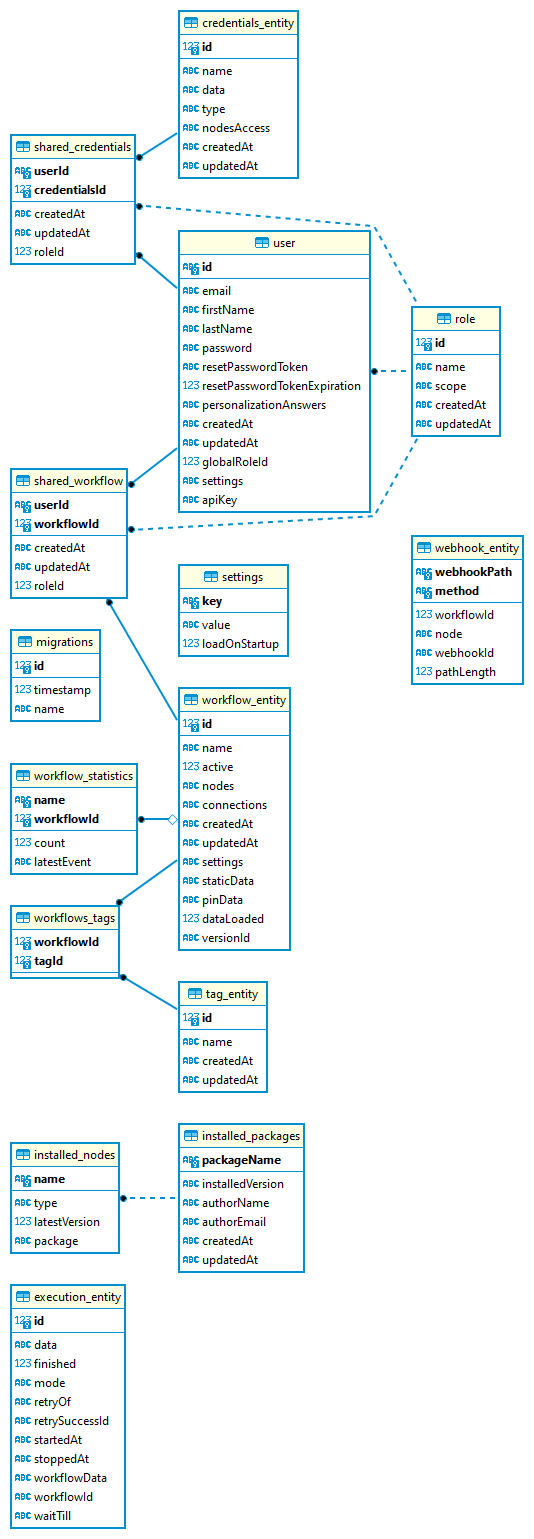
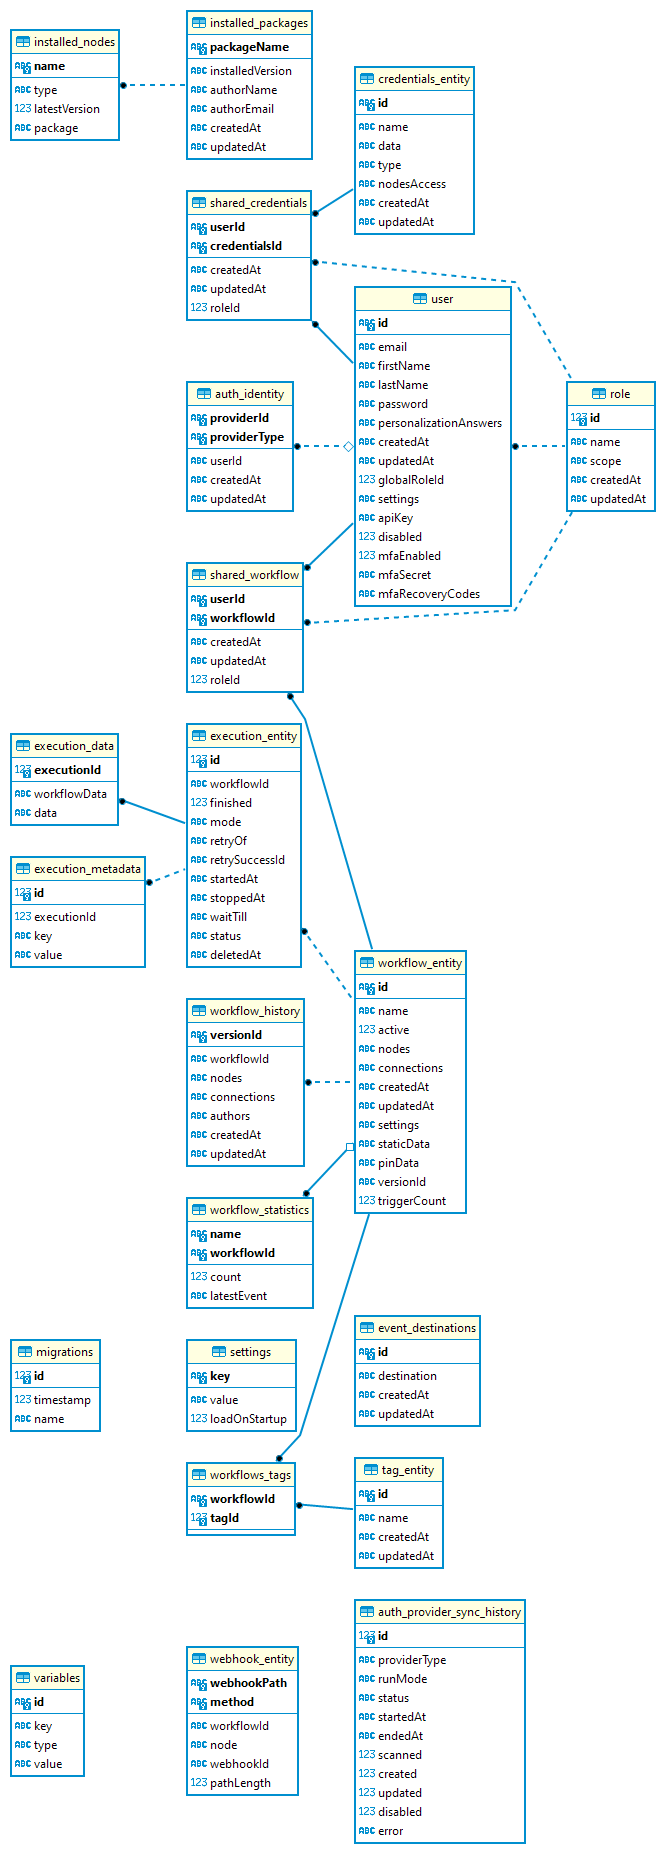
wip

Changed region(s): [[0.0, 0.0, 0.9888, 0.9981], [0.0, 0.7173, 0.2397, 0.9981], [0.2697, 0.8733, 0.4494, 0.9669]]

diff --git a/docs/hosting/architecture/database-structure.md b/docs/hosting/architecture/database-structure.md
@@ -19,19 +19,35 @@ To inspect the n8n database, you can use [DBeaver](https://dbeaver.io){:target=_
 
 These are the tables n8n creates during setup.
 
+### auth_identity
+
+Stores details of external authentication providers when using [SAML](/user-management/saml/). [TODO - confirm]
+
+### auth_provider_sync_history
+
+Stores the history of a SAML connection. [TODO - confirm]
+
 ### credentials_entity
 
 Stores the credentials used to authenticate with integrations.
 
-### eventdestinations_entity
+### event_destinations
 
 Enterprise only.
 
 Contains the destination configurations for [Log streaming](/log-streaming/).
 
+### execution_data
+
+Links executions to workflow data. [TODO - confirm]
+
 ### execution_entity
 
 Stores all saved workflow executions. Workflow settings can affect which executions n8n saves.
+
+### execution_metadata
+
+Stores execution IDs.
 
 ### installed_nodes
 
@@ -73,6 +89,10 @@ All workflow tags created in the n8n instance. This table lists the tags. [workf
 
 Contains user data.
 
+### variables
+
+Store [variables](/variables/). [TODO - confirm]
+
 ### webhook_entity
 
 Records the active webhooks in your n8n instance's workflows. This isn't just webhooks uses in the Webhook node. It includes all active webhooks used by any trigger node.
@@ -80,6 +100,14 @@ Records the active webhooks in your n8n instance's workflows. This isn't just we
 ### workflow_entity
 
 Your n8n instance's saved workflows.
+
+### workflow_history
+
+Store previous versions of workflows. [TODO - confirm]
+
+### workflow_statistics
+
+[TODO]
 
 ### workflows_tags
 
